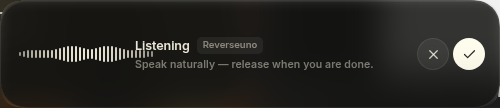
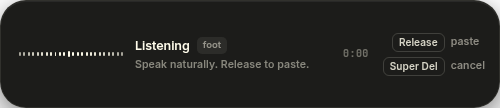
docs: README in the NODAYSIDLE house style, fresh screenshots
Centered header with icon and flat-square badges, screenshot tables, the
journey, engines, stack, install, shortcuts, CLI, testing, architecture,
known gaps and privacy. Screenshots retaken from demo data in the Omarchy
theme; the overlay shot shows the key hints instead of the old buttons.

diff --git a/README.md b/README.md
@@ -1,108 +1,156 @@
-# reverseuno
+<div align="center">
+  <img src="resources/icon.png" width="144" alt="reverseuno app icon">
+  <h1>reverseuno</h1>
+  <p><strong>Push-to-talk dictation for Omarchy / Hyprland.</strong></p>
+  <p>Hold Right Super → speak → release. The polished text lands at your cursor.</p>
 
-**Hold Right Super, speak, release. The polished text lands at your cursor.**
+  <p>
+    <img src="https://img.shields.io/badge/Linux-Arch%20%2F%20Omarchy%20%2F%20Hyprland-1793D1?style=flat-square&logo=arch-linux&logoColor=white" alt="Arch / Omarchy / Hyprland">
+    <img src="https://img.shields.io/badge/Wayland-wtype%20%2B%20wl--clipboard-151518?style=flat-square" alt="Wayland">
+    <img src="https://img.shields.io/badge/Electron-44-47848F?style=flat-square&logo=electron&logoColor=white" alt="Electron 44">
+    <img src="https://img.shields.io/badge/TypeScript-strict-3178C6?style=flat-square&logo=typescript&logoColor=white" alt="TypeScript strict">
+    <img src="https://img.shields.io/badge/tests-60%20passing-4c8c6b?style=flat-square" alt="60 tests passing">
+    <img src="https://img.shields.io/badge/telemetry-none-4c8c6b?style=flat-square" alt="No telemetry">
+    <img src="https://img.shields.io/badge/version-0.1.0-8e8e96?style=flat-square" alt="Version 0.1.0">
+  </p>
+</div>
 
-A Linux-native, shaped around Omarchy/Hyprland and an Apple Magic Keyboard. Cloud STT (Deepgram Nova-3 streaming,
-or any OpenRouter transcription model), cloud formatting (OpenRouter), a local hub for history/dictionary/snippets/style, and a
-compact Flow-Bar-style overlay.
+<table>
+  <tr>
+    <td width="62%" align="center"><img src="docs/screenshots/hub-home.png" alt="Hub home"></td>
+    <td width="38%" align="center"><img src="docs/screenshots/overlay-listening.png" alt="Overlay while listening"><br><br><img src="docs/screenshots/hub-dictionary.png" alt="Dictionary"></td>
+  </tr>
+</table>
 
-![Hub](docs/screenshots/hub-home.png)
+Linux only: an Electron app shaped around Omarchy, Hyprland and an Apple Magic
+Keyboard (Right Cmd is `Super_R`). Cloud speech-to-text, cloud formatting, everything
+else local.
 
-![Overlay](docs/screenshots/overlay-listening.png)
+## The journey
 
----
+One loop:
 
-## What works today
+```text
+Hold Right Super
+  → speak
+  → release
+  → transcribe (Deepgram Nova-3 streaming, or an OpenRouter model)
+  → polish (OpenRouter) + dictionary spellings
+  → paste into the window you started in
+```
 
-- **Right Super push-to-talk.** `Super_R` press starts, release stops and pastes,
-  `Super+Delete` cancels. The text goes back into the window you started in, even if
-  focus moved meanwhile. The installer comments out the old WhisperBar bind on the
-  same key so the two do not double-fire.
-- **16 kHz mono capture** in an Electron renderer with an `AudioWorklet`, 640-sample
-  (40 ms) frames — the same shape as the original Wispr recorder.
-- **Deepgram Nova-3 streaming** over a WebSocket with interim results, keepalive,
-  keyterms from your dictionary, and a whole-clip batch fallback if the socket dies.
-- **OpenRouter speech-to-text** as an alternative: pick Deepgram or OpenRouter in
-  Settings → Providers, then any model from OpenRouter's transcription catalogue
-  (default `openai/gpt-4o-mini-transcribe`). One key for everything; no live preview.
-- **OpenRouter formatting** with four cleanup levels (None/Light/Medium/High), five
-  writing styles, custom instructions, app/title context, a hard timeout, and a raw
-  fallback.
-- **Deterministic E2E harness:** `npm run test:e2e` feeds a known WAV through
-  Chromium's fake microphone, then proves Deepgram → formatter → a real target
-  textarea → clipboard restore → history and timings. The physical Trust GXT mic
-  was also verified manually end to end.
-- **Dictionary with exact spellings:** an entry without a correction is written exactly
-  as stored, so `fastfetch` stays lowercase at the start of a sentence. Dictionary →
-  Add developer words loads ~170 developer terms and spoken forms (“no days idle” →
-  `nodaysidle`), skipping tool names that are also everyday English words.
-- **Hub UI:** Home stats/history/search, Dictionary, Snippets, Style, Settings,
-  history detail drawer, edit-to-learn dictionary suggestions. Follows the active
-  Omarchy theme (light or dark) and switches live with it; Settings → Appearance →
-  Paper restores the built-in look.
-- **Overlay UI:** compact dark pill, live waveform, interim transcript, timer, key
-  hints, processing/done/error states, optional resting pill. Never takes focus.
-- **Local-first data:** history, dictionary, snippets and settings in
-  `~/.config/reverseuno/`; no account, no telemetry, audio is never written to disk.
-- **60 unit tests** for text cleanup, snippets, dictionary corrections, edit
-  learning, stats, WAV handling, paste rules, the formatter prompt, OpenRouter
-  speech-to-text, the model list, the dictation engine and the Omarchy theme.
+| Stage | What happens |
+|---|---|
+| **Hold** | The overlay appears with a live waveform. The focused window is remembered. |
+| **Speak** | 16 kHz mono audio streams to Deepgram; interim words show in the overlay. |
+| **Release** | Transcribing, then polishing with your cleanup level, style and dictionary. |
+| **Paste** | Focus returns to the original window if it moved, then `Ctrl+V` or `Shift+Insert` per app. Your clipboard is restored. |
+| **Done** | A short “Pasted”, then the overlay hides. |
 
-## Quick start
+The overlay never takes focus and ignores the mouse while recording, so it cannot
+steal the paste. `Super+Delete` cancels. If the original window is gone, the text is
+left on your clipboard instead of landing somewhere else.
 
-### 1. Keys
+## What’s on screen
 
-Use one of these, in priority order:
+| Surface | Role |
+|---|---|
+| **Overlay** | 500×108 dark pill: waveform, “Listening”, the target app, interim text, timer, key hints. Optional resting pill. |
+| **Home** | Stats, weekly chart, rhythm, edit-to-learn suggestions, searchable history grouped by day. |
+| **Dictionary** | Words and spoken-form corrections. Entries keep their exact spelling, so `fastfetch` stays lowercase. **Add developer words** loads ~170 terms. |
+| **Snippets** | Say a trigger, get the full text. |
+| **Style** | Four cleanup levels, five writing styles, custom instructions, app context. |
+| **Settings** | Key, language, microphone, providers and models, insertion rules, appearance, overlay, history. |
+| **Tray** | Start/stop, open the hub, quit. |
 
-1. **In the app:** Settings → Providers → paste a Deepgram key and an OpenRouter key.
-2. **Environment:** `DEEPGRAM_API_KEY`, `OPENROUTER_API_KEY`.
-3. **Existing WhisperBar config:** reverseuno can read
-   `~/.config/whisper-bar/config.env` as a fallback. Keys never leave the machine
-   except to the provider.
+The hub follows the active **Omarchy theme**, light or dark, and switches live with
+it. Settings → Appearance → **Paper** restores the built-in look.
 
-### 2. Run
+<table>
+  <tr>
+    <td width="50%" align="center"><img src="docs/screenshots/hub-settings.png" alt="Settings"></td>
+    <td width="50%" align="center"><img src="docs/screenshots/hub-style.png" alt="Style"></td>
+  </tr>
+</table>
+
+## Engines / models
+
+BYOK. No keys ship with the app.
+
+| Engine | Role | Network |
+|---|---|---|
+| **Deepgram Nova-3** | Default speech-to-text. WebSocket streaming with interim results, dictionary keyterms, whole-clip batch fallback. | Audio to Deepgram while you speak |
+| **OpenRouter STT** | Alternative speech-to-text: any model from OpenRouter's transcription catalogue (default `openai/gpt-4o-mini-transcribe`). No live preview. | Audio to OpenRouter on release |
+| **OpenRouter formatter** | Cleanup and style. Hard timeout; falls back to the raw transcript. | Transcript text to OpenRouter |
+
+Pick the speech provider and models in Settings → Providers; the model fields suggest
+from OpenRouter's live lists. Keys are read from Settings, then `DEEPGRAM_API_KEY` /
+`OPENROUTER_API_KEY`, then `~/.config/whisper-bar/config.env`.
+
+For accented English, set Language to **English** rather than Multilingual: the
+recogniser then never guesses another language.
+
+## Stack
+
+| Layer | Technology |
+|---|---|
+| Shell | Electron 44, electron-vite |
+| UI | React 19, plain CSS with theme tokens |
+| Audio | `getUserMedia` + `AudioWorklet`, 640-sample (40 ms) frames |
+| Speech-to-text | Deepgram WebSocket / REST, OpenRouter `/audio/transcriptions` |
+| Formatting | OpenRouter chat completions |
+| Insertion | `wl-copy` / `wl-paste`, `wtype`, `hyprctl` refocus |
+| Hotkeys | Hyprland binds → `reverseuno` CLI → local HTTP control server |
+| Storage | JSON in `~/.config/reverseuno/`; keys via `safeStorage` |
+
+## Install
+
+Requires Arch / Omarchy with Hyprland, Node 22+, `wtype`, `wl-clipboard` and `jq`.
 
 ```bash
+git clone https://github.com/nodaysidle/reverseuno.git
+cd reverseuno
 npm install
 npm run build
-npm start
-```
-
-`npm start` launches the built app. For development with HMR:
-
-```bash
-npm run dev
-```
-
-### 3. Install the CLI, desktop entry and Right Super bind
-
-```bash
 bash scripts/install-local.sh
 ```
 
-This:
+`install-local.sh`:
 
 - symlinks `bin/reverseuno` to `~/.local/bin/reverseuno`;
-- writes `~/.local/share/applications/reverseuno.desktop`;
-- adds **Apps → reverseuno** to the Omarchy menu (idempotent);
-- backs up `~/.config/hypr/bindings.lua` and adds:
+- writes `~/.local/share/applications/reverseuno.desktop` and adds **Apps → reverseuno**
+  to the Omarchy menu;
+- backs up `~/.config/hypr/bindings.lua` and writes a managed block (rerunning updates
+  it in place):
 
 ```lua
-o.bind("Super_R", "reverseuno hold", "/home/arch/.local/bin/reverseuno start")
-o.bind("Super_R", "reverseuno release", "/home/arch/.local/bin/reverseuno stop", { release = true })
-o.bind("SUPER + Delete", "reverseuno cancel", "/home/arch/.local/bin/reverseuno cancel")
+o.bind("Super_R", "reverseuno hold", "~/.local/bin/reverseuno start")
+o.bind("Super_R", "reverseuno release", "~/.local/bin/reverseuno stop", { release = true })
+o.bind("SUPER + Super_R", "reverseuno release (super held)", "~/.local/bin/reverseuno stop", { release = true })
+o.bind("SUPER + Delete", "reverseuno cancel", "~/.local/bin/reverseuno cancel")
 ```
 
-- adds floating-window rules for the 1180×820 hub and the 500×108 overlay (the
-  overlay is `no_focus`, so it can never swallow the paste);
-- rerunning it updates the block in place;
-- comments out the active WhisperBar `Super_R` bind;
-- reloads Hyprland.
+- adds window rules: floating 1180×820 hub, `no_focus` overlay;
+- comments out an old WhisperBar `Super_R` bind and reloads Hyprland.
 
-Then hold **Right Super**, speak, and release. The app is also listed under
-**Omarchy menu → Apps → reverseuno**.
+The release is bound twice because Hyprland can still count Super as held while
+`Super_R` is released; a duplicate stop is ignored. The real file uses absolute paths.
 
-### CLI
+Then add your keys in Settings → Providers, hold **Right Super**, speak, and release.
+For development with hot reload: `npm run dev`.
+
+## Shortcuts
+
+| Action | Default |
+|---|---|
+| Hold to dictate | `Right Super` (Right Cmd on a Magic Keyboard) |
+| Cancel | `Super + Delete` |
+| Start / stop from the mouse | Tray, hub button or resting pill (toggles) |
+
+Dictations started from the hub save to history instead of pasting, because the hub
+itself has focus.
+
+## CLI
 
 ```bash
 reverseuno start          # press
@@ -116,34 +164,23 @@ reverseuno lang cycle
 reverseuno quit
 ```
 
-The CLI talks to `127.0.0.1:47100` (or the next free port) with a per-run bearer
-token stored in `~/.config/reverseuno/control.json` (mode 0600).
+The CLI talks to `127.0.0.1:47100` (or the next free port) with a per-run bearer token
+in `~/.config/reverseuno/control.json` (mode 0600). Each call is logged to
+`~/.config/reverseuno/logs/app.log`.
 
 ## Testing
 
 ```bash
-npm test                 # 41 unit tests
-npm run test:e2e         # fake mic -> STT -> format -> target window, with a focus steal
-E2E_STT=openrouter npm run test:e2e   # same receipt through OpenRouter transcription
-npx tsc --noEmit         # typecheck
-npm run build            # main + preload + three renderer pages
-
-# Provider checks (reads env or ~/.config/whisper-bar/config.env)
-npx tsx scripts/test-deepgram.ts
-npx tsx scripts/test-format.ts
-npx tsx scripts/test-stream.ts   # real-time 40 ms frames over the WebSocket
+npm test                              # 60 unit tests
+npm run typecheck
+npm run test:e2e                      # fake mic → STT → format → target window, with a focus steal
+E2E_STT=openrouter npm run test:e2e   # the same run through OpenRouter transcription
 ```
 
-Verified on this machine:
-
-- Deepgram batch: `Let's meet at 6PM on Thursday to review the quarterly report.`
-- Deepgram streaming: same final transcript, interim results visible.
-- OpenRouter: `um so i think...` → `I think we should move the review to Thursday at 6:00 and send the numbers before that.`
-- E2E: `At 6 PM on Thursday to review the quarterly report.` appeared in the target
-  textarea, the clipboard sentinel was restored, history/timings were written.
-- Physical Trust GXT 232 mic: the button and Right Cmd both opened a Deepgram stream;
-  a real spoken dictation was inserted.
-- Overlay and hub render correctly on Hyprland at 1:1 scale.
+The E2E harness feeds a known WAV through Chromium's fake microphone, steals focus to
+a decoy window mid-dictation, and checks that the text lands in the original window,
+the decoy stays empty, the clipboard is restored and history is written. Real-key
+push-to-talk with a physical mic is verified by hand.
 
 ## Architecture
 
@@ -155,61 +192,49 @@ reverseuno CLI ──HTTP──▶ Electron main (DictationEngine)
                               │
         ┌─────────────────────┼────────────────────────┐
         ▼                     ▼                        ▼
-  capture renderer      Deepgram WS               formatter (OpenRouter)
-  getUserMedia          linear16 16 kHz           cleanup + style + dictionary
-  AudioWorklet          interim + final           timeout + raw fallback
-  640 samples           batch fallback
+  capture renderer      Deepgram WS / OpenRouter  formatter (OpenRouter)
+  AudioWorklet          interim + final           cleanup + style + dictionary
+  16 kHz, 40 ms         batch fallback            timeout + raw fallback
         │
         ▼
-  clipboard + wtype Ctrl+V / Shift+Insert
-  restore after 500/3000/5000 ms
+  refocus target → clipboard + wtype → restore clipboard
         │
         ▼
-  history (JSON), dictionary, snippets, stats
+  history, dictionary, snippets, stats (JSON)
 ```
-
-Key files:
 
 | Path | Responsibility |
 |---|---|
 | `src/main/dictation.ts` | State machine, streaming, fallback, formatting, insertion, history |
-| `src/main/stt/deepgram.ts` | WebSocket + batch Deepgram client |
-| `src/main/stt/openrouter.ts` | OpenRouter `/audio/transcriptions` client |
-| `src/main/models.ts` | Live OpenRouter model lists for Settings |
+| `src/main/stt/` | Deepgram (WebSocket + batch) and OpenRouter clients |
 | `src/main/format.ts` | Formatter prompt and OpenRouter call |
-| `src/main/paste.ts` | Hyprland window lookup, clipboard snapshot/restore, `wtype` rules |
+| `src/main/paste.ts` | Hyprland window lookup and refocus, clipboard snapshot/restore, `wtype` rules |
+| `src/main/theme.ts` | Reads and watches the active Omarchy theme |
 | `src/main/index.ts` | Windows, IPC, control server, tray, autostart |
-| `src/renderer/hub/` | Hub React UI |
-| `src/renderer/overlay/` | Flow-Bar overlay |
-| `src/renderer/capture/` | Hidden mic renderer + AudioWorklet |
-| `src/shared/` | Types, defaults, text cleanup, stats, WAV |
-| `scripts/install-hyprland.py` | Idempotent Hyprland bind + window rules |
+| `src/renderer/` | Hub, overlay and hidden capture renderers |
+| `src/shared/` | Types, defaults, text cleanup, developer vocabulary, stats, WAV |
+| `scripts/install-hyprland.py` | Idempotent Hyprland bind block and window rules |
 
 ## Known gaps
 
-- The E2E harness uses Chromium's deterministic fake microphone. The physical mic was
-  verified manually, but there is no automated physical-device test.
-- No **paste verification** (Wispr uses Windows UI Automation; Linux would need
-  AT-SPI). A failed paste is reported in history but not retried.
-- No **focused-text-box context** (before/after cursor, selected text). Only app class
-  and window title are sent to the formatter.
-- **Cloud only** by design: no offline Whisper, no local model.
-- **Hyprland only.** No X11/GNOME/KDE global-shortcut or overlay path.
-- No packaging (AppImage/deb/AUR), auto-update or signed releases. The desktop entry
-  points at this checkout.
-- `safeStorage` can fall back to a plainly marked value on systems without a keyring.
-- No meeting recorder, notepad/scratchpad, insights or mobile sync.
-- The hub uses JSON storage; Wispr uses SQLite with migrations.
-
+- **Hyprland only.** No X11, GNOME or KDE shortcut or overlay path.
+- **Cloud only** by design: no offline Whisper.
+- No paste verification (Linux would need AT-SPI). A failed paste is recorded in
+  history but not retried.
+- No focused-field context; only the app class and window title reach the formatter.
+- No packaging (AppImage, AUR), auto-update or signed releases yet. The desktop entry
+  points at the checkout.
+- `safeStorage` falls back to a plainly marked value on systems without a keyring.
 
 ## Privacy
 
-- Audio is streamed to Deepgram (or sent once to OpenRouter on release) and held in
-  memory only for that request.
-- The cleaned transcript is sent to OpenRouter when formatting is on.
-- App class/window title can be sent as tone context; disable it in Style.
+- Audio is streamed to Deepgram (or sent once to OpenRouter on release), held in
+  memory for that request only, and never written to disk.
+- The transcript goes to OpenRouter when formatting is on; app class and window title
+  can be sent as context (turn it off in Style).
 - History, dictionary, snippets and settings stay in `~/.config/reverseuno/`.
-- No analytics, no account, no telemetry.
+
+No accounts, no analytics, no telemetry.
 
 ## License
 
